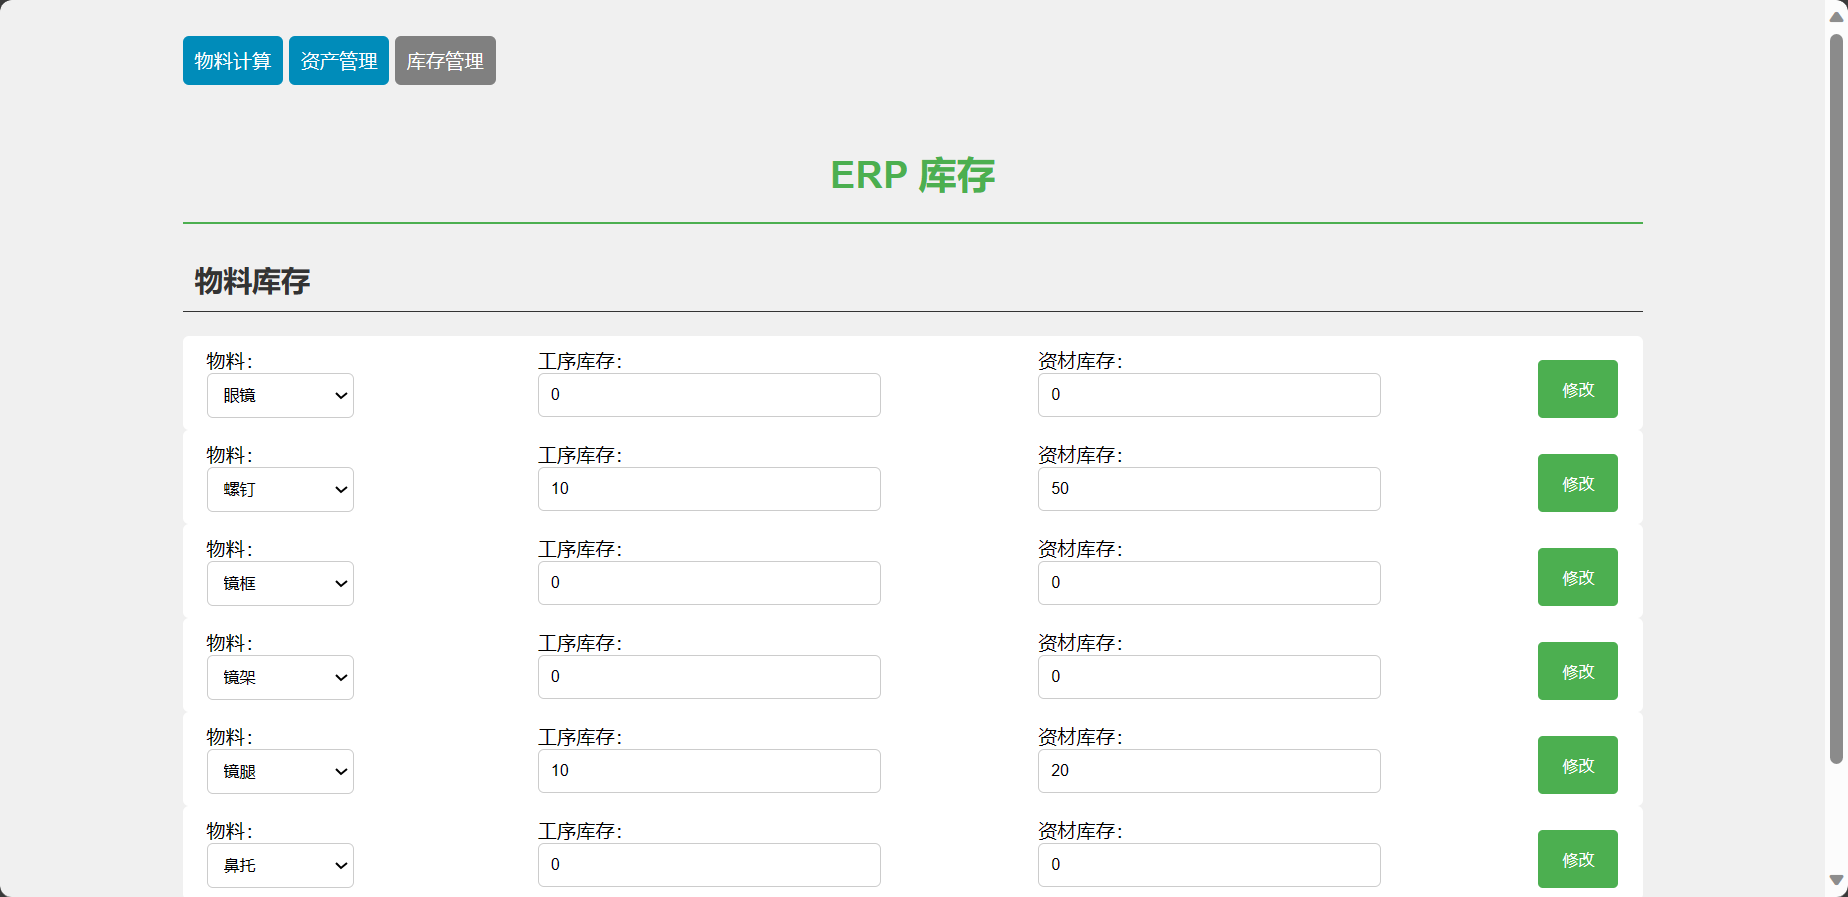
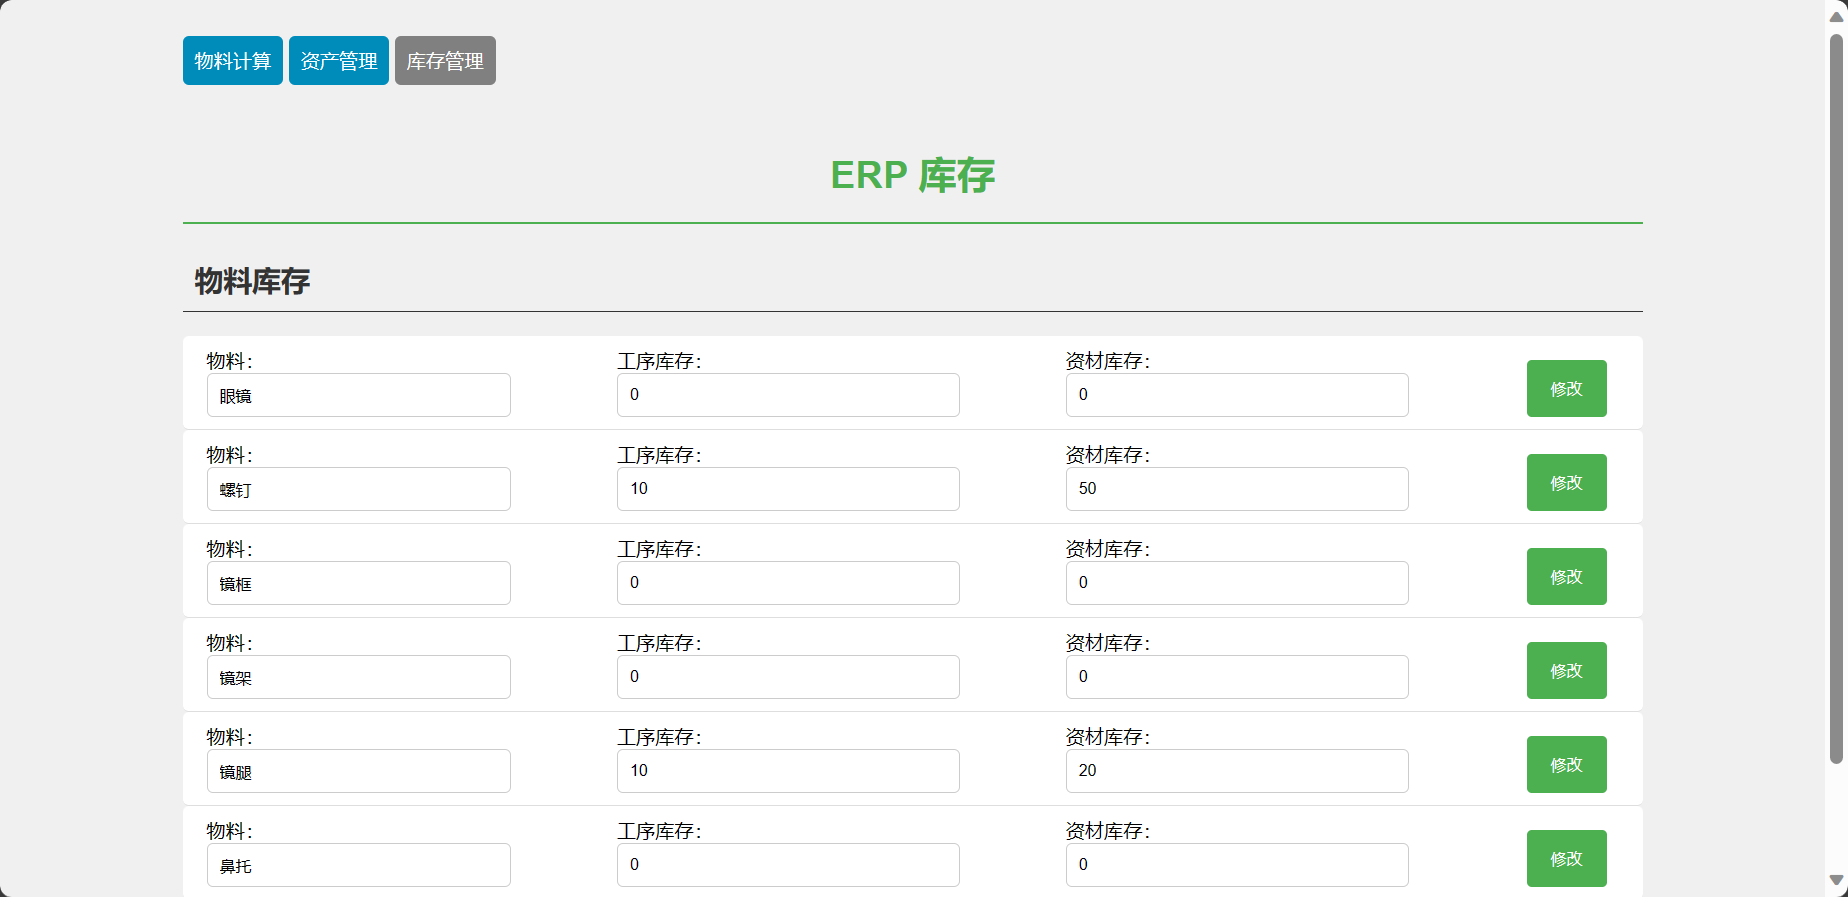
add mutex

diff --git a/templates/store.html b/templates/store.html
@@ -37,6 +37,7 @@
             border-radius: 5px;
             display: flex;
             justify-content: space-between;
+            border-bottom: 1px solid #ddd;
         }
         label {
             display: block;
@@ -48,17 +49,11 @@
             border-radius: 5px;
             border: 1px solid #ccc;
         }
-        select{
-            width: 100%;
-            padding: 10px;
-            border-radius: 5px;
-            border: 1px solid #ccc;
-        }
         input[type="submit"] {
             background-color: #4CAF50;
             color: white;
             padding: 14px 20px;
-            margin: 10px 0;
+            margin: 10px;
             border: none;
             border-radius: 4px;
             cursor: pointer;
@@ -78,20 +73,7 @@
         a:hover {
             background-color: #007B9A;
         }
-            table {
-        width: 100%;
-        border-collapse: collapse;
-        }
-        th, td {
-            padding: 15px;
-            text-align: left;
-            border-bottom: 1px solid #ddd;
-        }
-        th {
-            background-color: #4CAF50;
-            color: white;
-        }
-        tr:hover {background-color: #f5f5f5;}
+        form:hover {background-color: #f5f5f5;}
     </style>
 </head>
 <body>
@@ -104,39 +86,19 @@
         {% for item in store %}
         <form action="/store/" enctype="application/x-www-form-urlencoded" method="post">
             <label>
-                物料：
-                <select name="pname" required>
-                    <option value="{{ item[0] }}">{{ item[0] }}</option>
-                </select>
+                物料：<input type="text" name="pname" required value="{{ item[0] }}" readonly>
             </label>
             <label>
-                工序库存：<input type="number" name="num1" required value="{{ item[1] }}" oninput="value=value.replace('-', '')">
+                工序库存：<input type="number" name="num1" required value="{{ item[1] }}"
+                                oninput="value=value.replace('-', '');value=value.replace('.', '')">
             </label>
             <label>
-                资材库存：<input type="number" name="num2" required value="{{ item[2] }}" oninput="value=value.replace('-', '')">
+                资材库存：<input type="number" name="num2" required value="{{ item[2] }}"
+                                oninput="value=value.replace('-', '');value=value.replace('.', '')">
             </label>
             <input type="submit" value="修改">
         </form>
         {% endfor %}
-<!--        <table>-->
-<!--            <thead>-->
-<!--                <tr>-->
-<!--                    <th>产品</th>-->
-<!--                    <th>工序库存</th>-->
-<!--                    <th>资材库存</th>-->
-<!--                </tr>-->
-<!--            </thead>-->
-<!--            <tbody>-->
-<!--                {% for item in store %}-->
-<!--                <tr>-->
-<!--                    <td>{{ item[0] }}</td>-->
-<!--                    <td>{{ item[1] }}</td>-->
-<!--                    <td>{{ item[2] }}</td>-->
-<!--                </tr>-->
-<!--                {% endfor %}-->
-<!--            </tbody>-->
-<!--        </table>-->
-
     </div>
 
 

diff --git a/templates/index.html b/templates/index.html
@@ -108,7 +108,7 @@
                 </select>
             </label>
             <label>
-                数量：<br><input type="number" name="num" required oninput="value=value.replace('-', '')">
+                数量：<br><input type="number" name="num" required oninput="value=value.replace('-', '');value=value.replace('.', '')">
             </label>
             <label>
                 完成日期：<br><input type="date" name="date" required>

diff --git a/erpsys.py b/erpsys.py
@@ -1,5 +1,6 @@
 import datetime
 import math
+import threading
 
 
 class MpsObj:
@@ -32,9 +33,9 @@ async def add(pname, require, deadline):
 
         MPS_obj_que.sort(key=lambda item: item.deadline)
 
-
+mutex = threading.Lock()  # 只允许一个修改库存
 async def show_result():
-
+    mutex.acquire()
     global ans
     sql_state="""
             SELECT inventory."父物料名称", inventory."子物料名称", supply."调配方式", inventory."构成数", 
@@ -97,6 +98,7 @@ async def show_result():
                 main_dfs(item, mps.require, ans, mps.deadline)
 
     await refresh_db(compose)
+    mutex.release()
 
 
 async def refresh_db(compose):
@@ -261,6 +263,32 @@ async def root(request: Request):  # 定义/clear/路由的GET请求处理函数
                                                      "que": MPS_output_que,
                                                      "supply_available":supply_available})  # 返回使用模板"index.html"渲染的响应，传递request、ans和que作为模板变量
 
+#########################################################################
+
+
+@app.get("/store/")
+async def root(request: Request):
+    from connectdb import select_from_db
+    store_list = await select_from_db("""select * from store""")
+    return templates.TemplateResponse("store.html", {"request": request,
+                                                    "store": store_list})
+
+
+@app.post("/store/")
+async def root(request: Request,
+               pname: str = Form("default"),
+               num1: str = Form("0"),
+               num2: str = Form("0")):
+    sql_statement = """update store set 工序库存={num1:d}, 资材库存={num2:d} 
+    where 物料名称='{pname:s}'""".format(pname=pname,num1=int(num1),num2=int(num2))
+    from connectdb import select_from_db,exec_sql
+    mutex.acquire()
+    await exec_sql(sql_statement)
+    mutex.release()
+    store_list = await select_from_db("""select * from store""")
+    return templates.TemplateResponse("store.html", {"request": request,
+                                                    "store": store_list})
+
 
 #########################################################################################
 
@@ -308,25 +336,6 @@ async def root(request: Request):
                                                     "x_available": x_available})
 
 
-@app.get("/store/")
-async def root(request: Request):
-    from connectdb import select_from_db
-    store_list = await select_from_db("""select * from store""")
-    return templates.TemplateResponse("store.html", {"request": request,
-                                                    "store": store_list})
-
-@app.post("/store/")
-async def root(request: Request,
-               pname: str = Form("default"),
-               num1: str = Form("0"),
-               num2: str = Form("0")):
-    sql_statement = """update store set 工序库存={num1:d}, 资材库存={num2:d} 
-    where 物料名称='{pname:s}'""".format(pname=pname,num1=int(num1),num2=int(num2))
-    from connectdb import select_from_db,exec_sql
-    await exec_sql(sql_statement)
-    store_list = await select_from_db("""select * from store""")
-    return templates.TemplateResponse("store.html", {"request": request,
-                                                    "store": store_list})
 
 if __name__ == "__main__":
     import uvicorn
